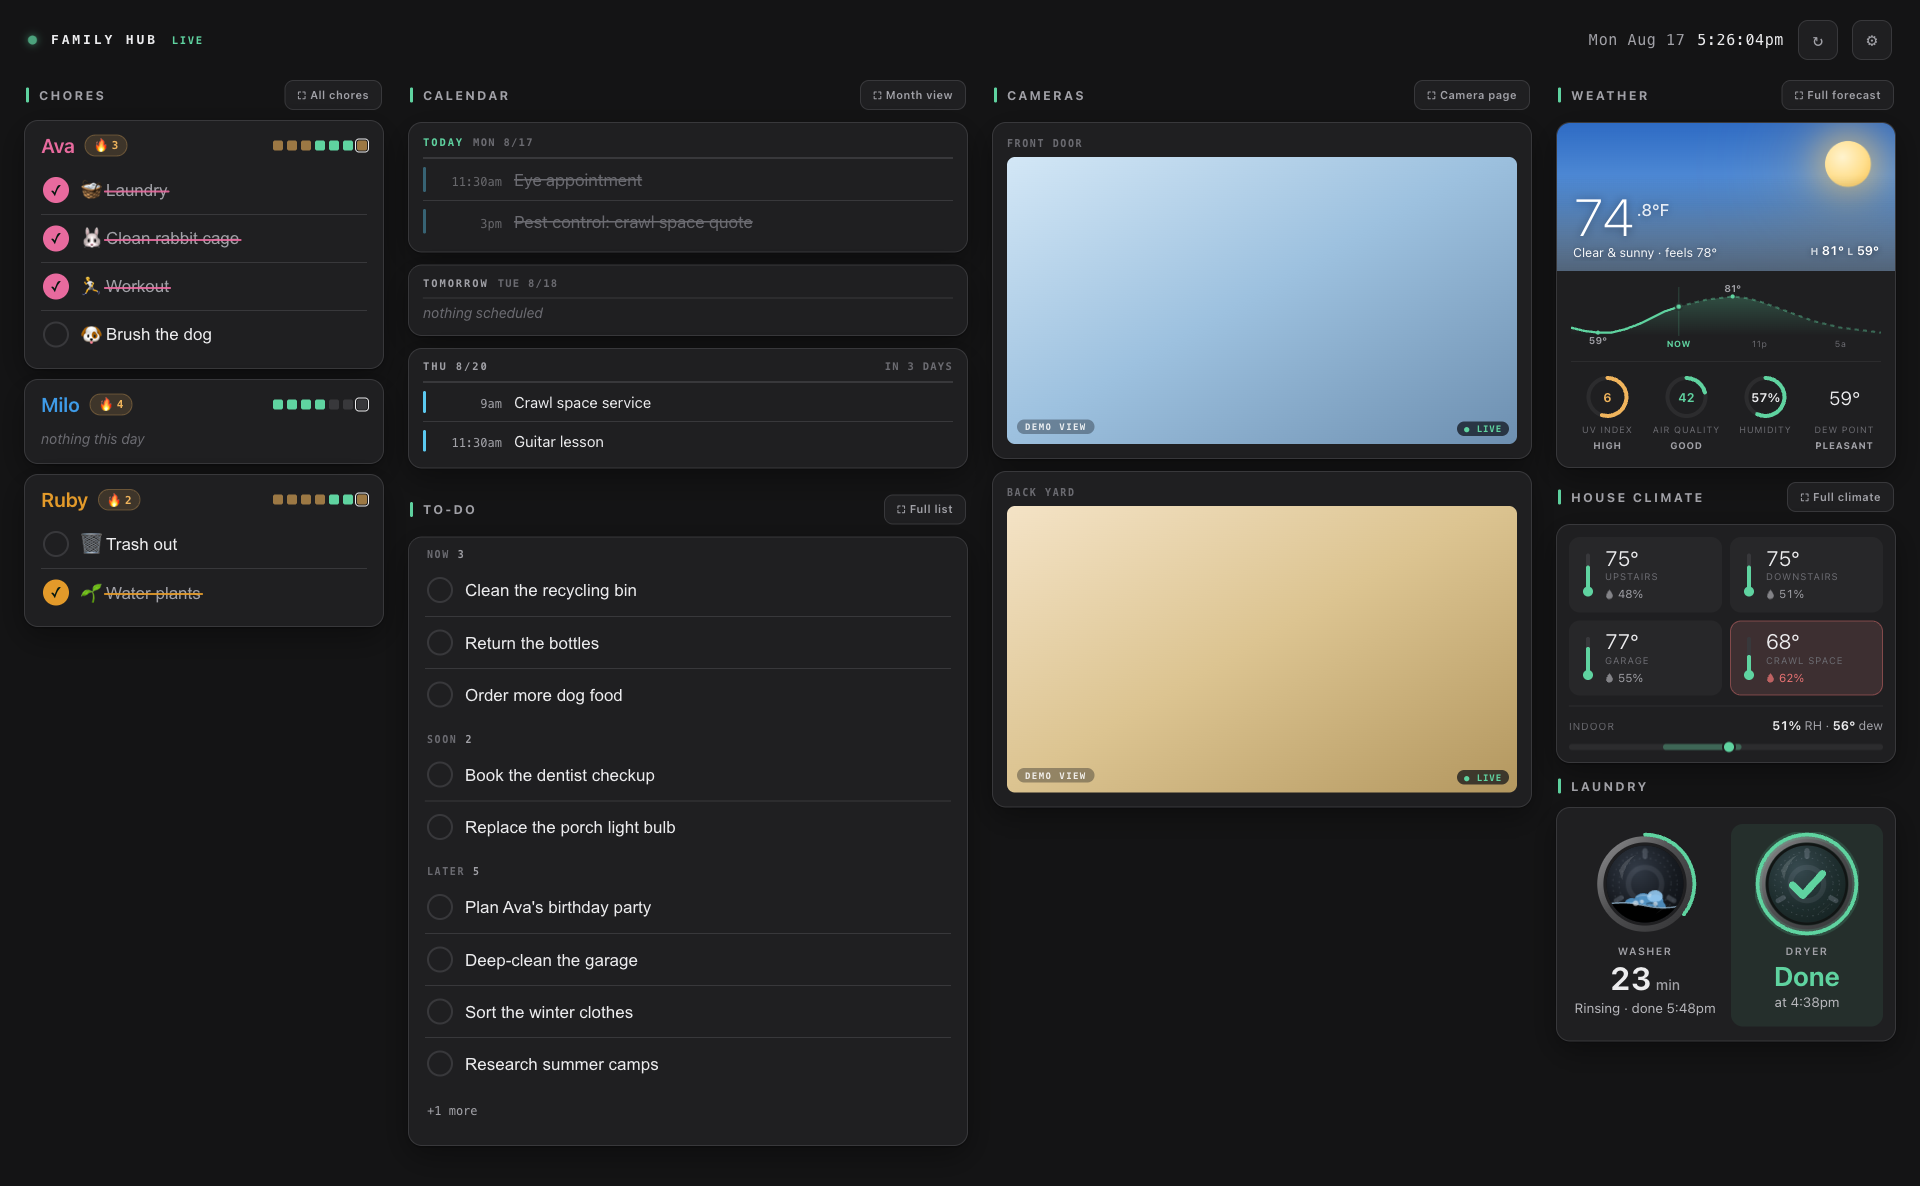
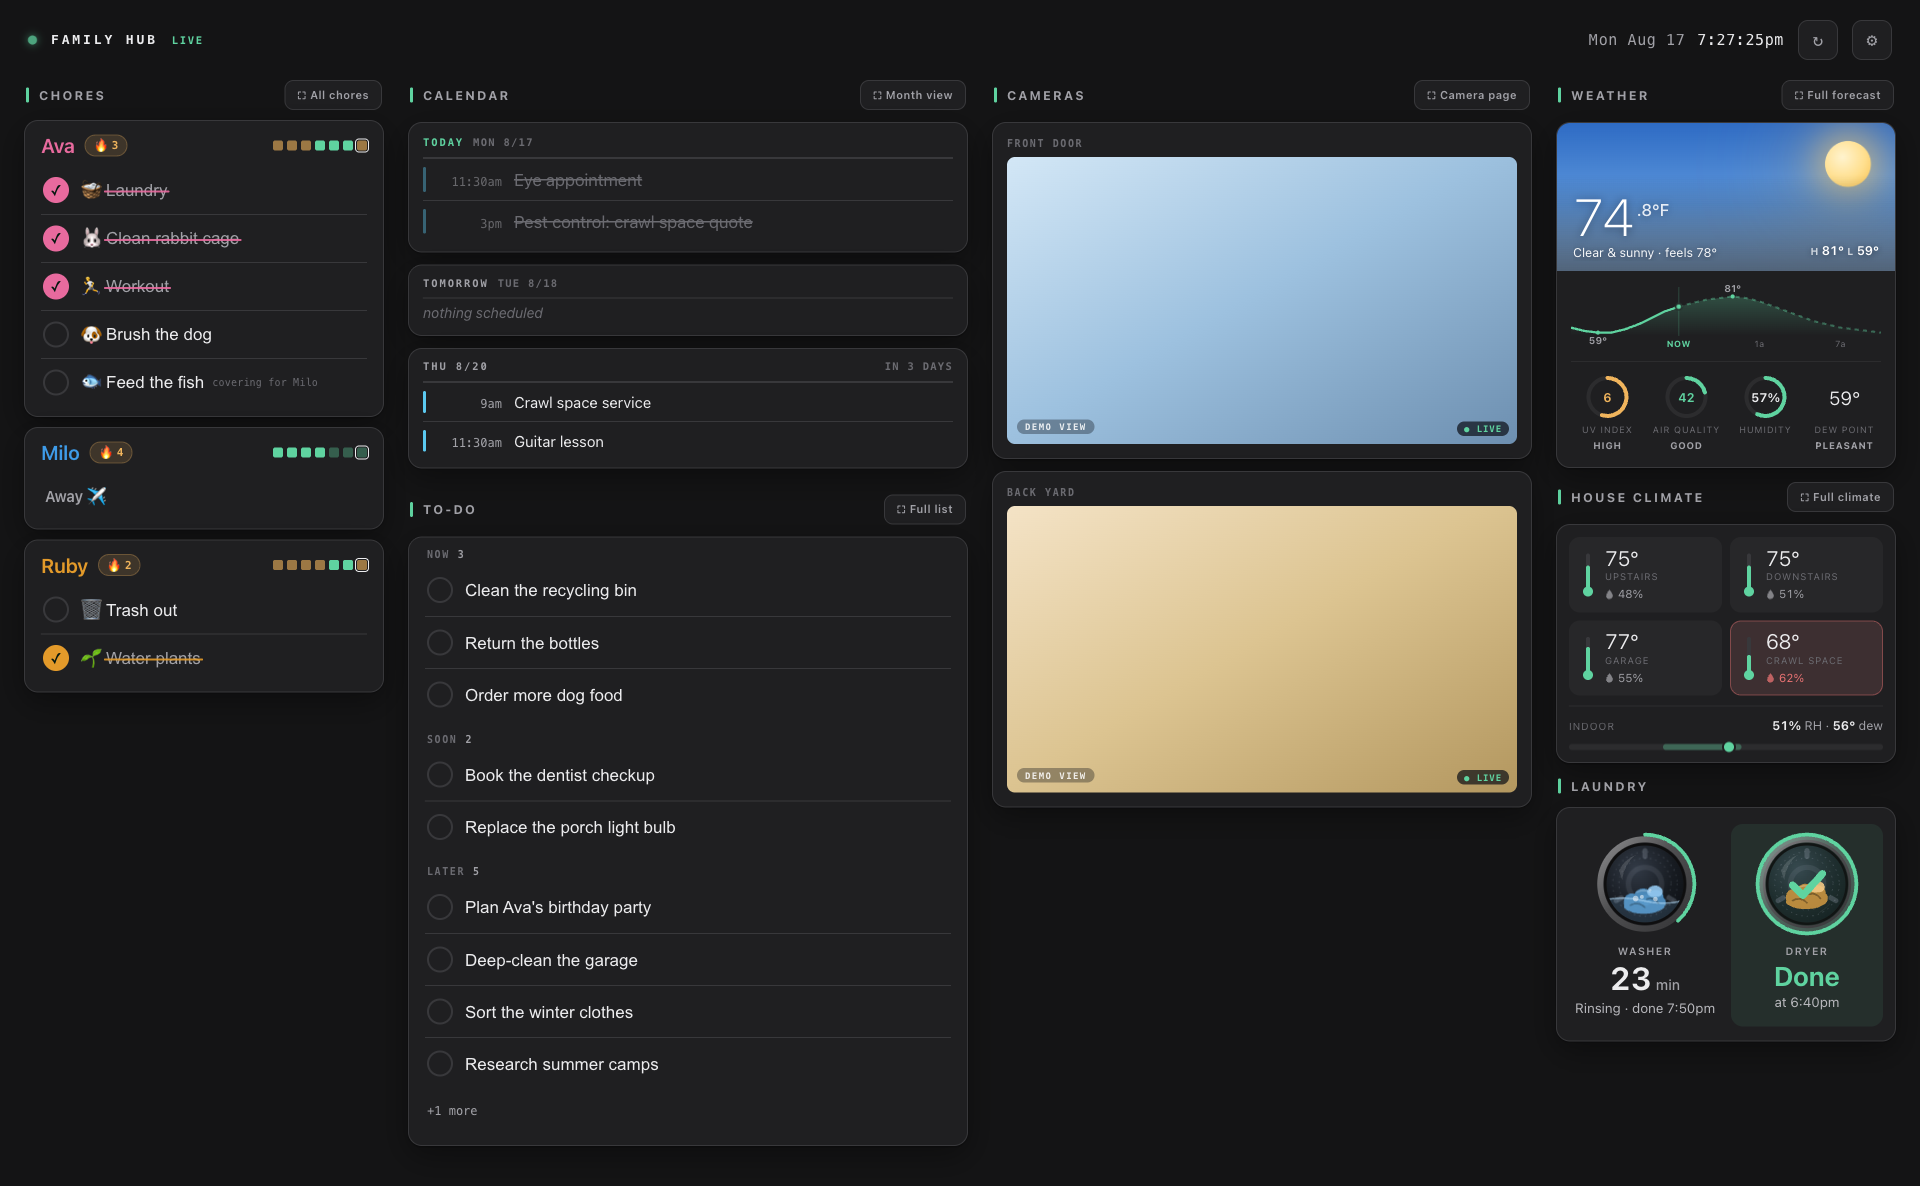
docs: README away/pause section + regenerated hub.png (away card shown)
Claude-Session: https://claude.ai/code/session_01KcRYSevtaG8D7bSWBSS3yF

diff --git a/README.md b/README.md
@@ -35,8 +35,8 @@ at one URL.
   multi-day events painted across their span, ended events struck through.
 - **Chores:** per-person cards in each person's color, streaks (🔥), a 7-day
   week strip, deterministic rotations, one-time chores due on a single date, a
-  browsable day history, and a one-shot confetti celebration when someone
-  clears their day.
+  browsable day history, an away/pause mode so a trip never breaks a streak,
+  and a one-shot confetti celebration when someone clears their day.
 - **To-Dos:** one shared household list for the stuff that isn't a scheduled
   chore — anyone adds, anyone checks off. Grouped Now / Soon / Later, items
   carry over until done, checked items linger struck-through until midnight,
@@ -55,8 +55,10 @@ at one URL.
   timestamp works. Fails soft like weather/climate.
 - **Manage:** tap **Edit** on the wall's Chores page to add/edit chores and
   people (rename, recolor, deactivate, or delete) right on the touchscreen —
-  no phone needed. The same page works from any browser on the LAN, so a phone
-  or laptop manages everything too. No app to install.
+  no phone needed. Mark someone **away** here too, with an optional backup to
+  cover their chores, and tap **I'm back** when they return. The same page works
+  from any browser on the LAN, so a phone or laptop manages everything too. No
+  app to install.
 
 ## Architecture & trust model
 
@@ -304,7 +306,16 @@ render from that record — so editing a schedule, reshuffling a rotation,
 deactivating, or even deleting a chore changes today and the future only.
 Nobody's streak is rewritten by an edit, and a deleted chore still shows on
 the days it was actually done. Streaks count consecutive completed days (rest
-days skip, an unfinished today is forgiven). People and chores are managed
+days skip, an unfinished today is forgiven).
+**Away / pause:** mark someone away for a stretch — open-ended, so you set it
+when they leave and clear it when they're back — and those days read as rest,
+so a trip never breaks their streak; on return they pick up where they left
+off, whatever day it is. While away, a rotation turn falls to whoever's home,
+and a fixed chore can pass to an optional **backup** who covers it (and gets
+the credit). Away is a pure overlay on top of the frozen history — it never
+rewrites a recorded day, so clearing an away period restores exactly what was
+there, and you can even back-date one to repair a streak after the fact.
+People and chores are managed
 right on the wall's Chores page (tap **Edit**) — on the touchscreen or from any
 browser on the LAN. Deleting
 a person is history-safe: their frozen past days stay recorded, and they're
